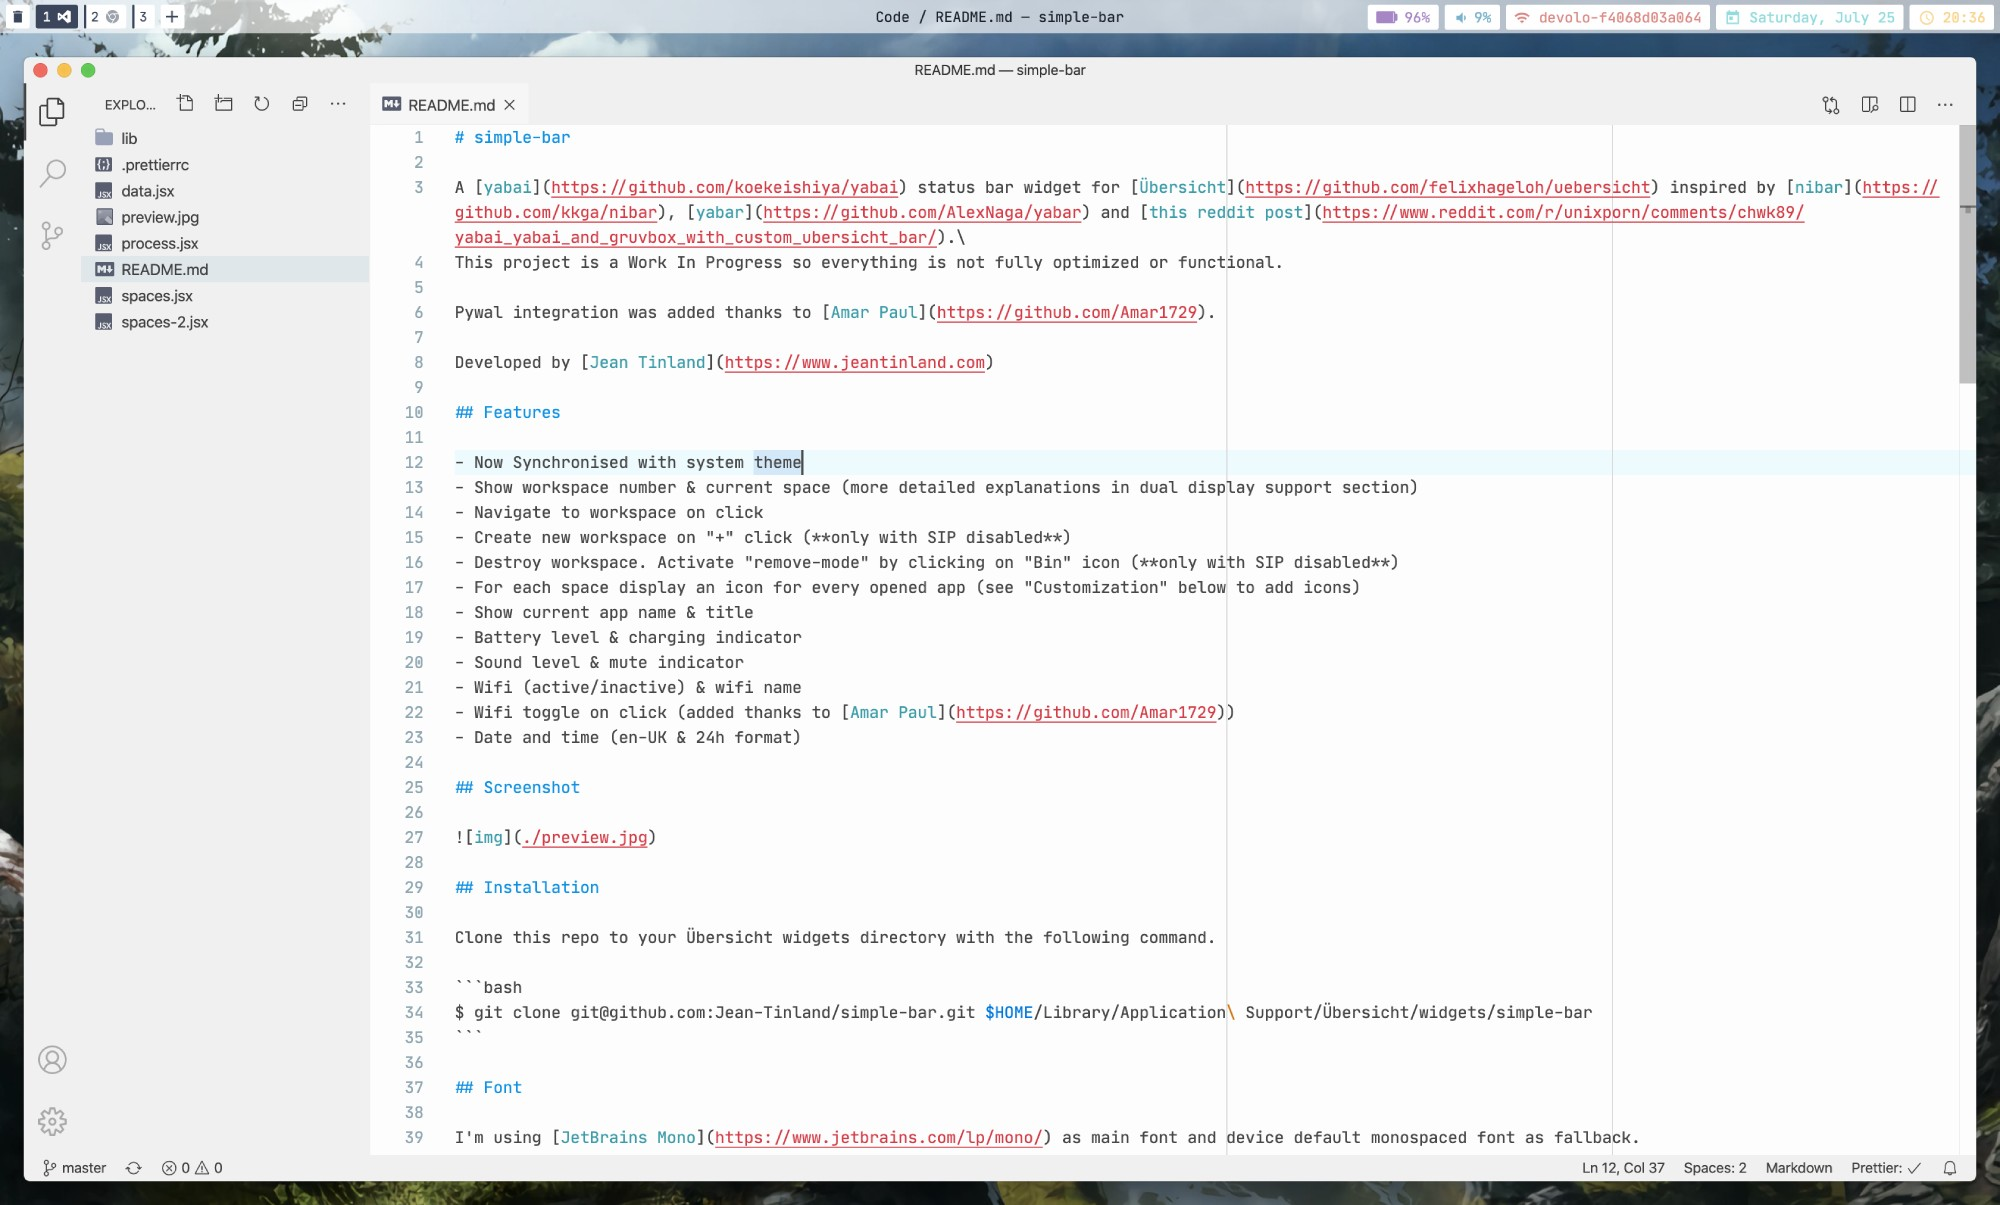
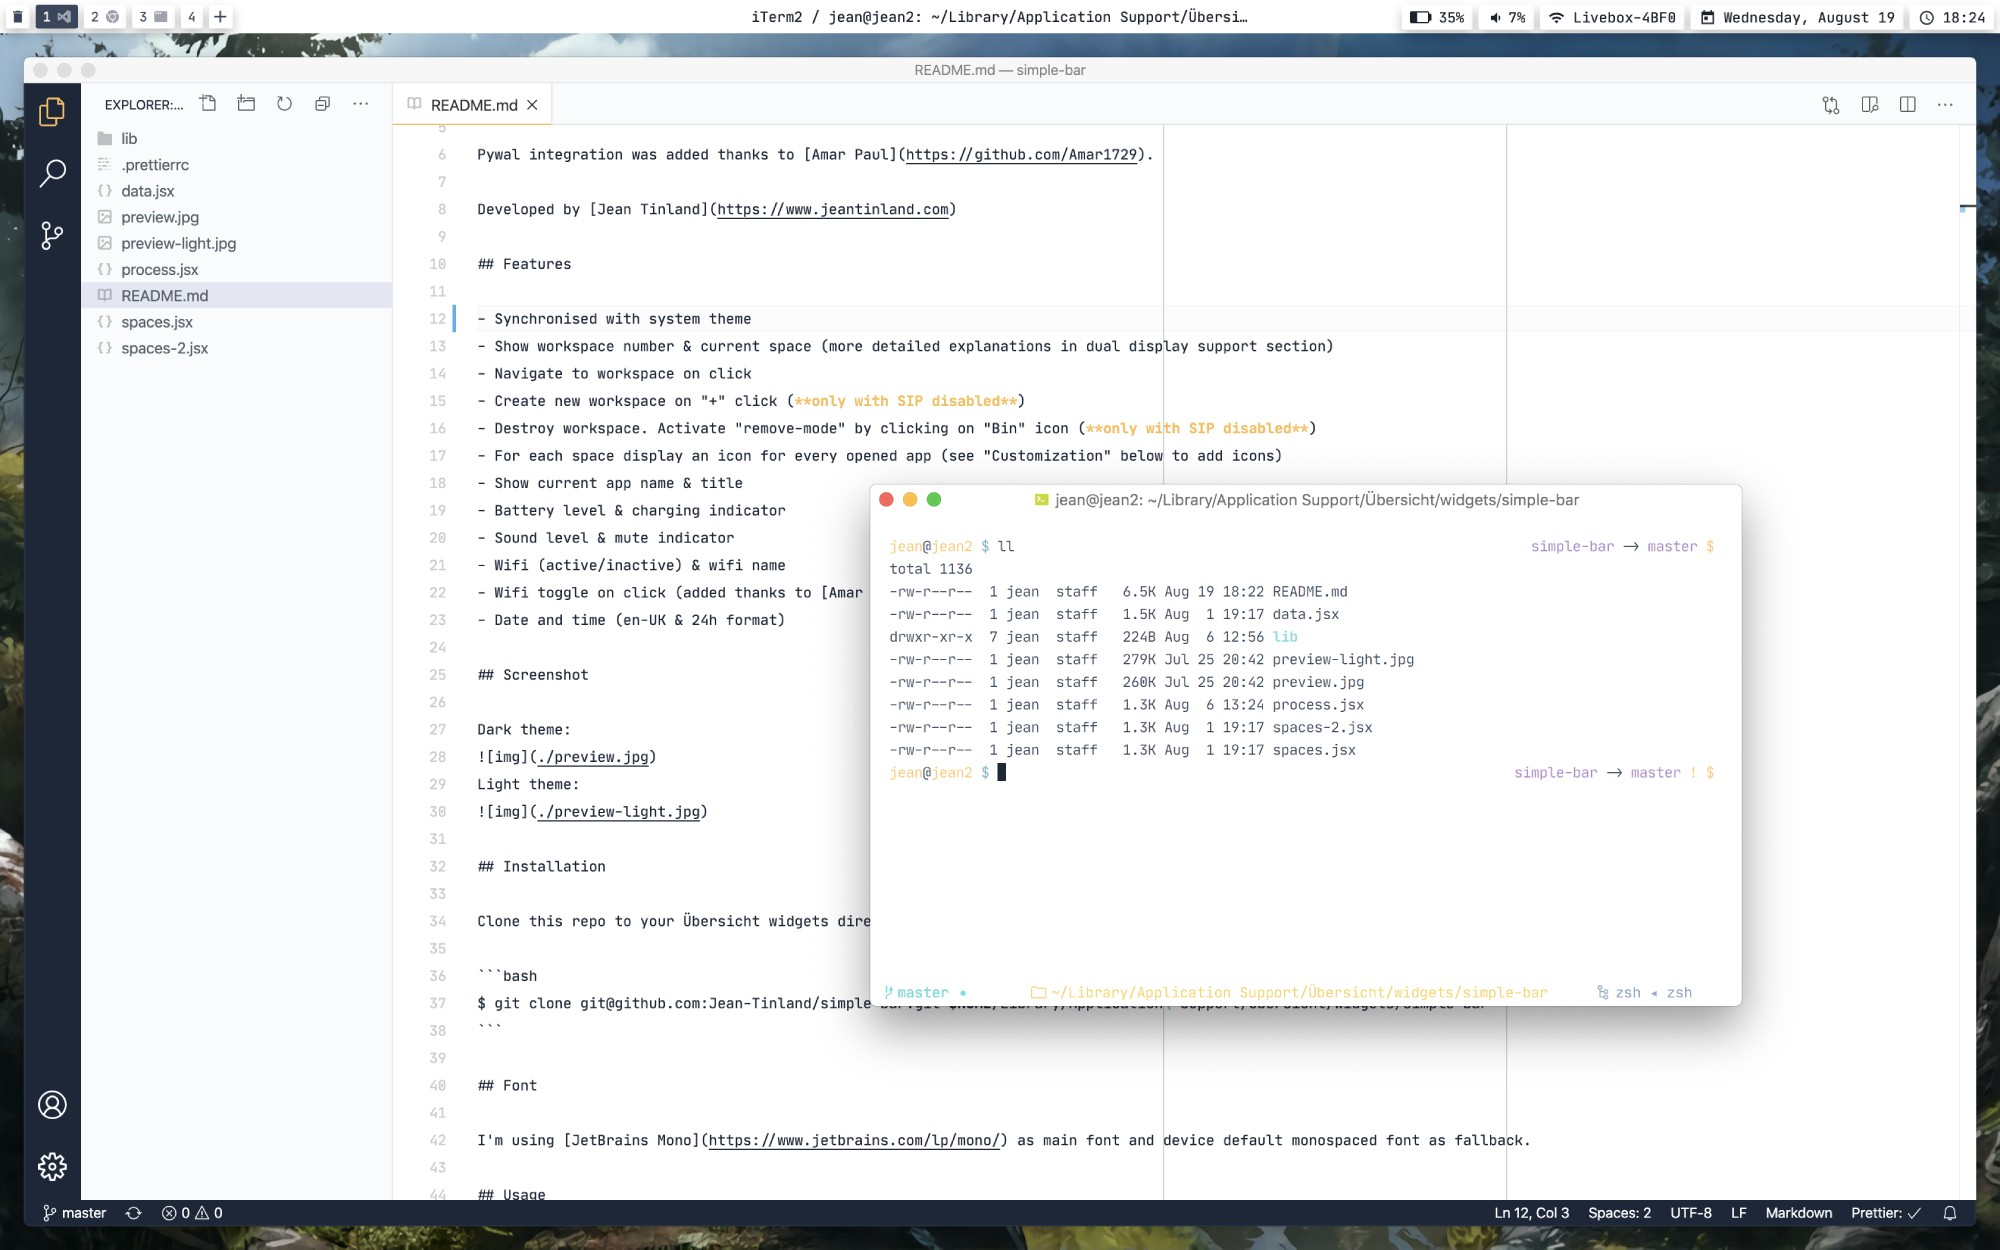
Update readme + preview light screenshot

diff --git a/README.md b/README.md
@@ -9,7 +9,7 @@ Developed by [Jean Tinland](https://www.jeantinland.com)
 
 ## Features
 
-- Now Synchronised with system theme
+- Synchronised with system theme
 - Show workspace number & current space (more detailed explanations in dual display support section)
 - Navigate to workspace on click
 - Create new workspace on "+" click (**only with SIP disabled**)
